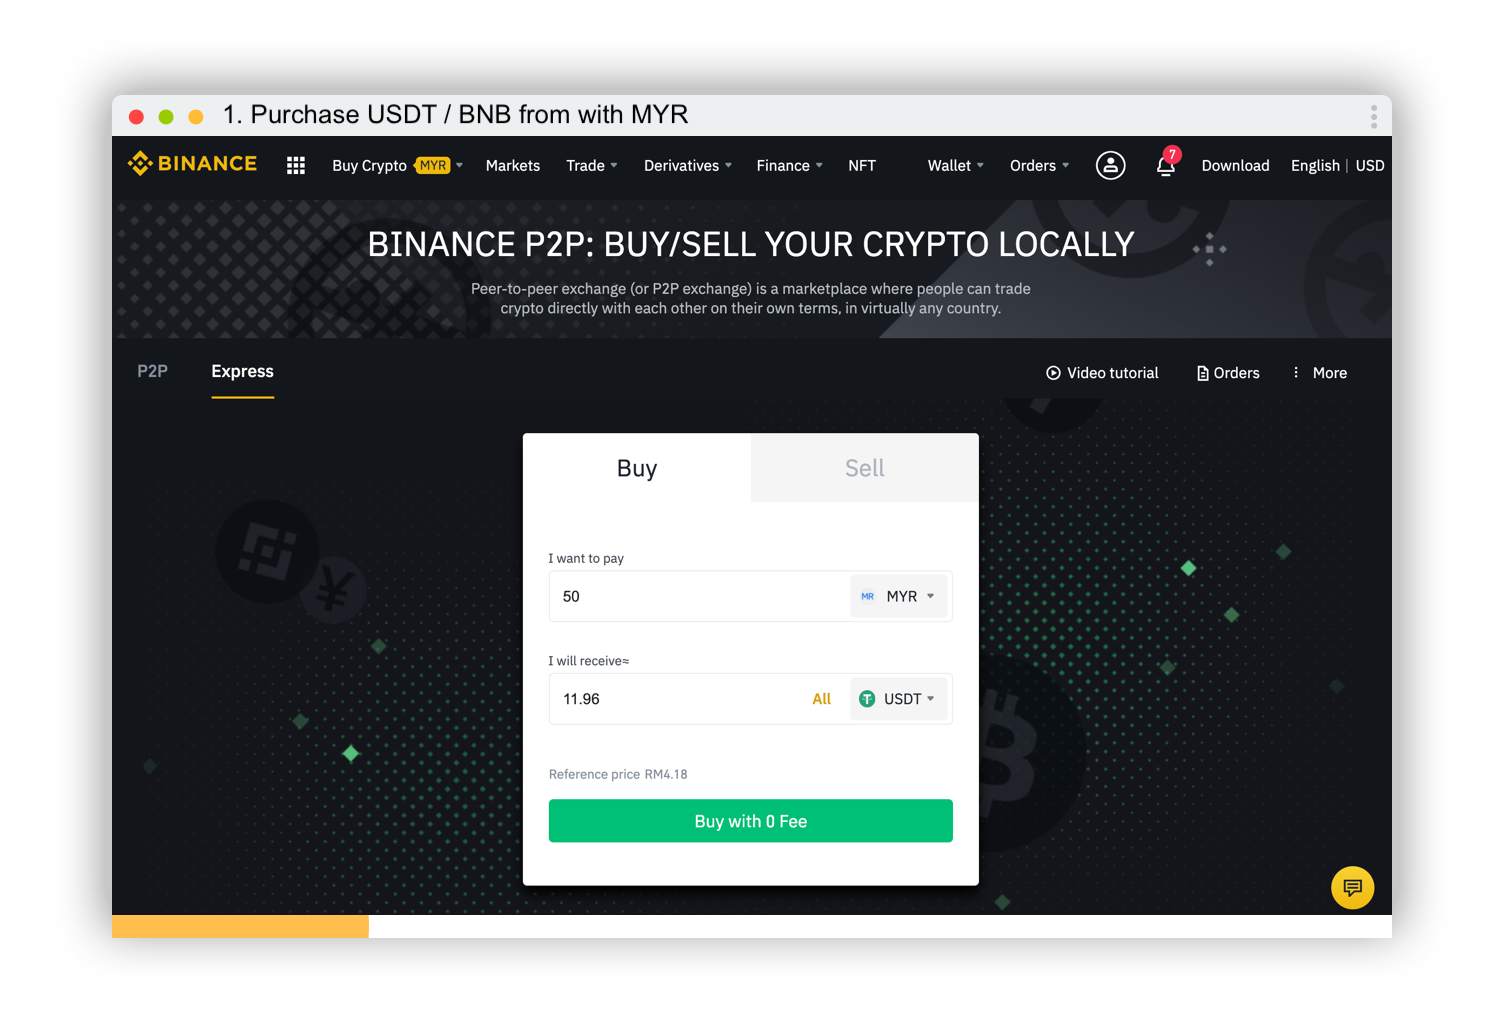
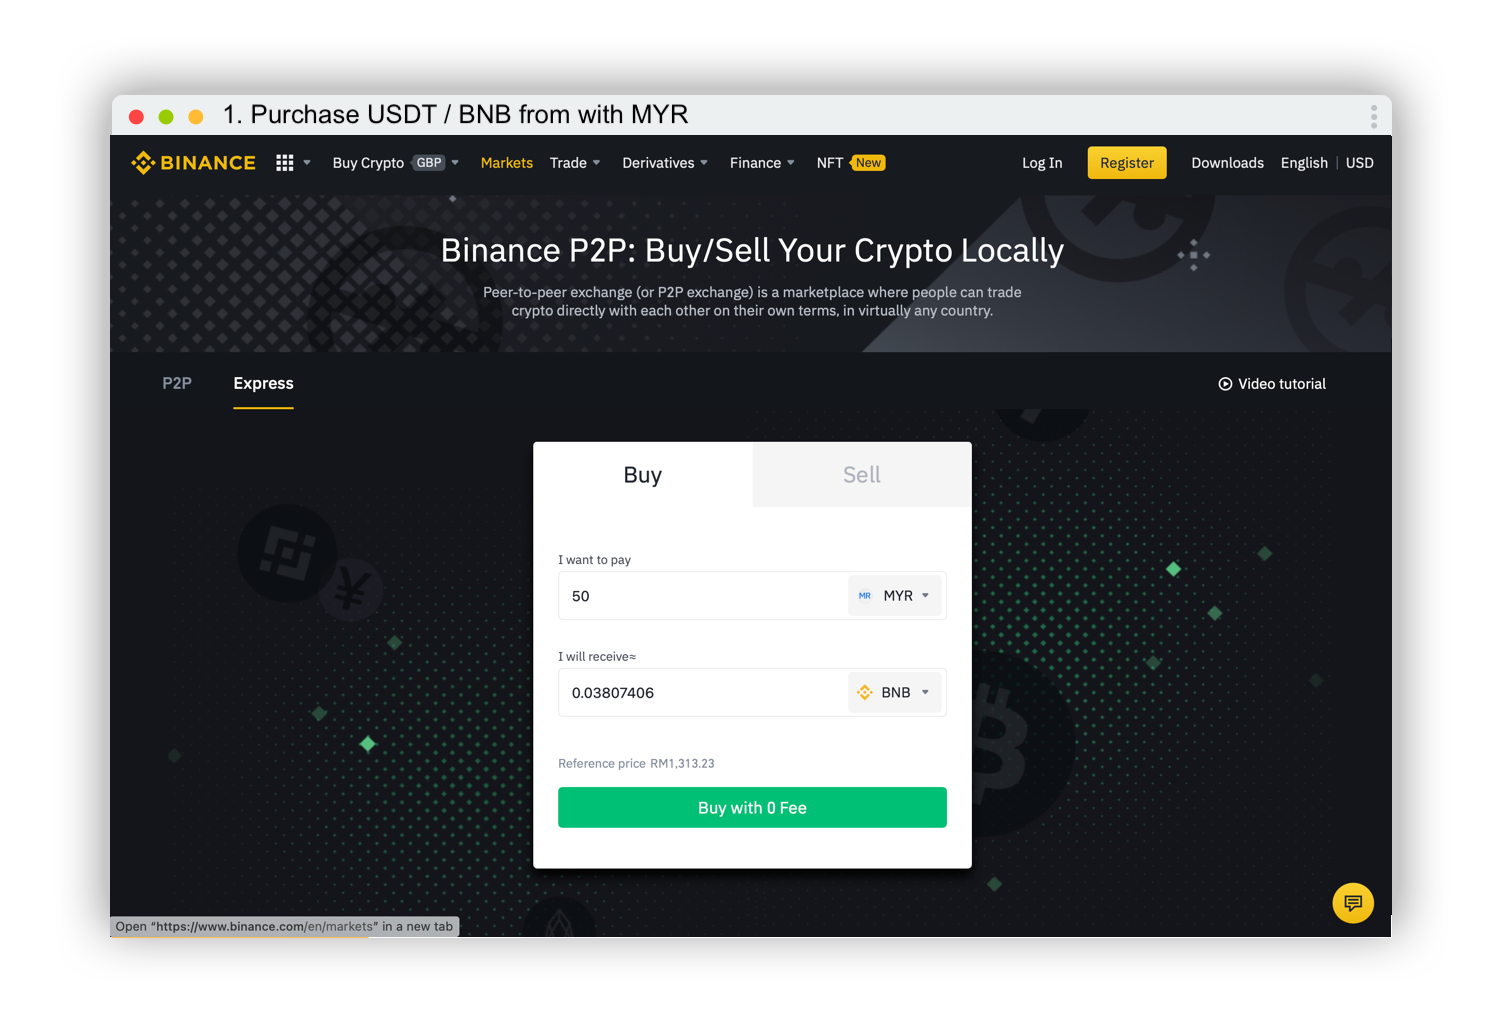
changed to BNB/KSC

diff --git a/index.html b/index.html
@@ -93,8 +93,8 @@
                         <p>There are 1 million coin created. No more coin will ever be created. The value increases over time with it is scares. </p>                          
 
                         <p>You can purchase Kasih Coin with these 2 simple step </p>
-                        <p>Step 1. Purchase USDT with MYR at <a href="https://p2p.binance.com/en/quickTrade/buy/USDT/MYR" target="_blank">from Binance</a> </p>
-                        <p>Step 2. Get Kasih Coin with USDT at <a href="https://exchange.pancakeswap.finance/#/swap?inputCurrency=0x55d398326f99059ff775485246999027b3197955&outputCurrency=0x0d4fa74867dEA48D96F09bc069c268711b8EAaB0" target="_blank">Pancake Swap</a> </p>
+                        <p>Step 1. Purchase BNB with MYR at <a href="https://p2p.binance.com/en/quickTrade/buy/BNB/MYR" target="_blank">from Binance</a> </p>
+                        <p>Step 2. Get Kasih Coin with BNB at <a href="https://exchange.pancakeswap.finance/#/swap?outputCurrency=0x0d4fa74867dEA48D96F09bc069c268711b8EAaB0" target="_blank">Pancake Swap</a> </p>
                         <br>                        
                         <p>Official Website: <a href="https://kasihcoin.org" target="_blank">https://kasihcoin.org</a>
                         <br>Smart Contract: <a href="https://bscscan.com/address/0x0d4fa74867dEA48D96F09bc069c268711b8EAaB0" target="_blank">https://bscscan.com/address/0x0d4fa74867dEA48D96F09bc069c268711b8EAaB0</a>
@@ -261,8 +261,8 @@
                 </div>
 
                   <p>You can purchase Kasih Coin with these 2 simple step
-                  <br>Step 1. Purchase USDT with MYR at <a href="https://p2p.binance.com/en/quickTrade/buy/USDT/MYR" target="_blank">from Binance</a>
-                  <br>Step 2. Get Kasih Coin with USDT at <a href="https://exchange.pancakeswap.finance/#/swap?inputCurrency=0x55d398326f99059ff775485246999027b3197955&outputCurrency=0x0d4fa74867dEA48D96F09bc069c268711b8EAaB0" target="_blank">Pancake Swap</a> </p>
+                    <p>Step 1. Purchase BNB with MYR at <a href="https://p2p.binance.com/en/quickTrade/buy/BNB/MYR" target="_blank">from Binance</a> </p>
+                    <p>Step 2. Get Kasih Coin with BNB at <a href="https://exchange.pancakeswap.finance/#/swap?outputCurrency=0x0d4fa74867dEA48D96F09bc069c268711b8EAaB0" target="_blank">Pancake Swap</a> </p>
 
                 <div class="owl-carousel owl-theme">
                   <div class="item">
